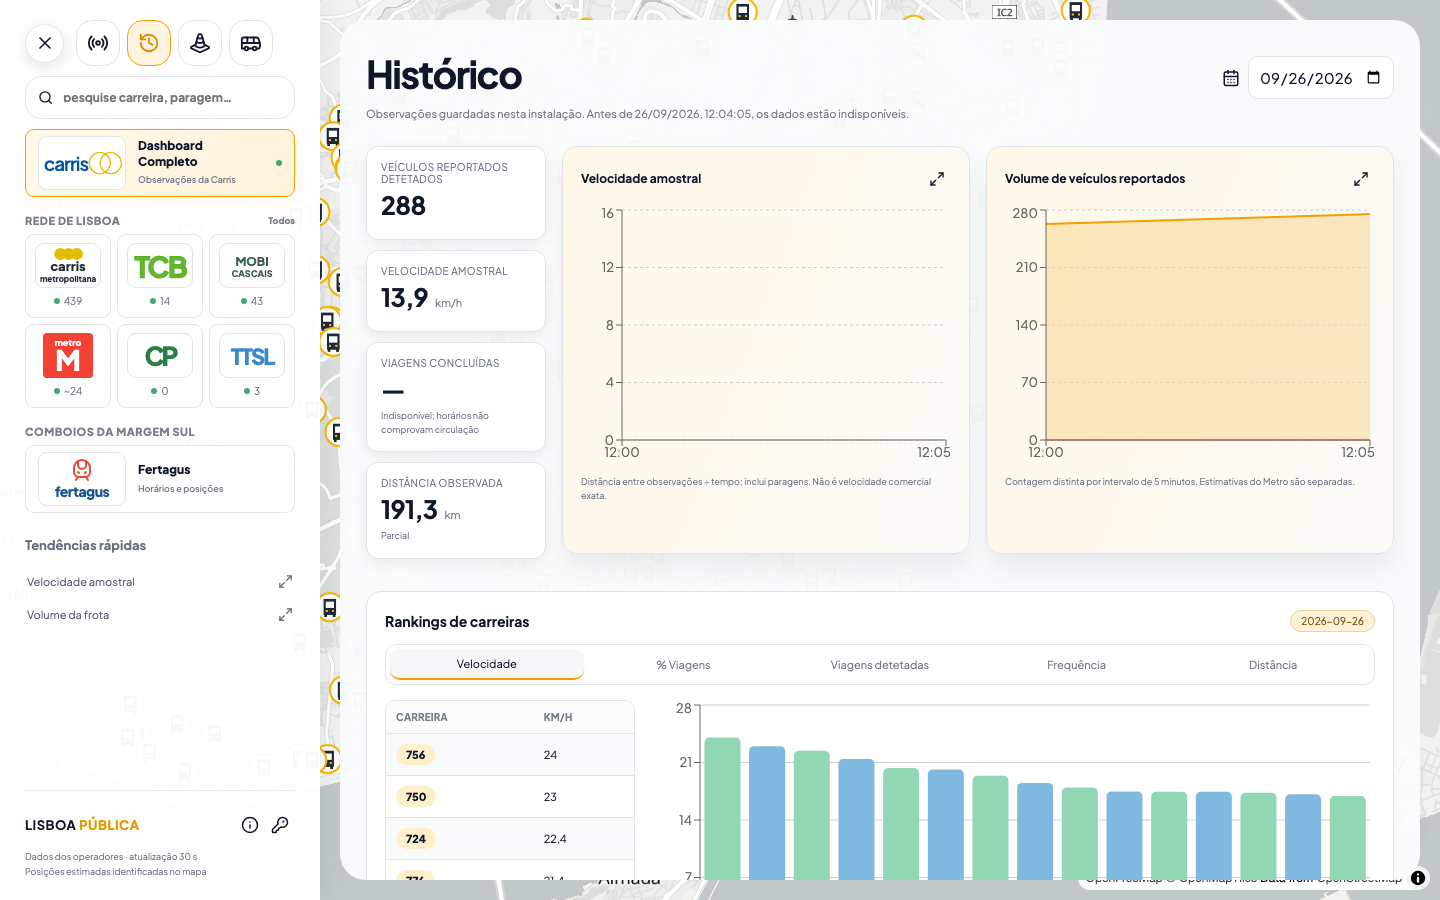
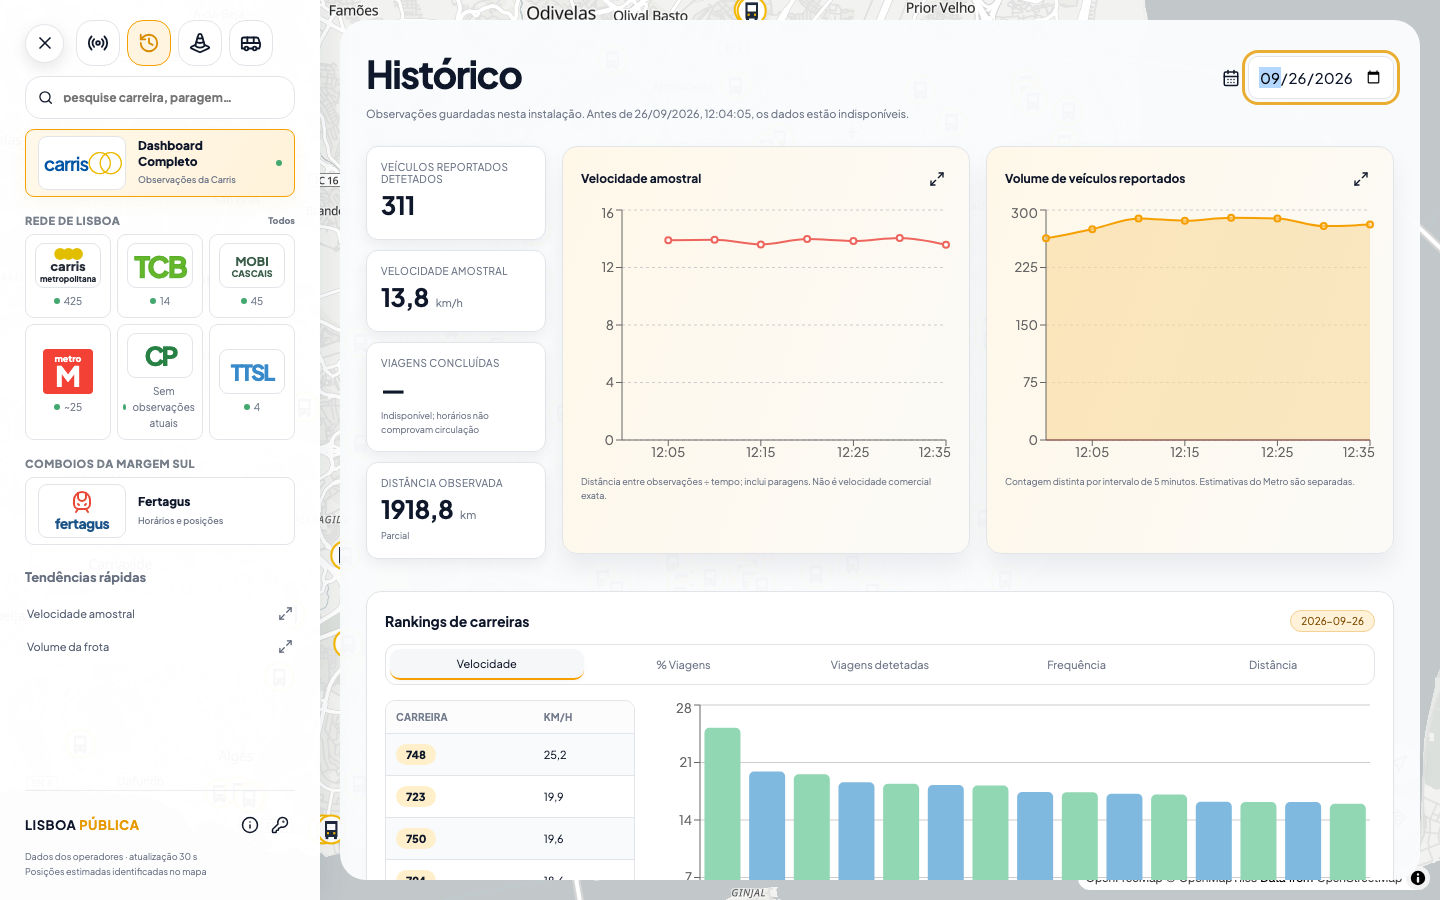
docs: record production metrics and overlay acceptance
## 🎯 Motivation

- Preserve production evidence for the CP diagnosis, restored metrics and official map overlays.

## 📋 Summary

- Record database/browser checks, all-source refresh memory, compression and independent acceptance.
- Update Maat gate results and mark the corrections plan complete.
- Capture current public desktop, mobile, chart and overlay screenshots.

diff --git a/docs/VALIDATION.md b/docs/VALIDATION.md
@@ -100,3 +100,19 @@ Full CRDB race suite passed73.335s; final targeted browser suite passed4/4 in8.7
 Independent final review found three recoverable edge gaps: oversized retained geometry could block a changed CM catalog, CM route detail lacked a representative highlight, and a CM archive with missing shapes could be silently counted as success. Main added fallback admission recheck (dropping inadmissible geometry with explicit unavailable reason), common exact static+health allocation accounting, representative CM route geometry, and rejection of empty per-agency shape variants. PG full race after the first fixes5.059s; subsequent checks recorded below.
 
 Final code review by existing quasar-alpha/xhigh independently recommends implementation acceptance, no code blockers. Focused missing-shape/CM/highlight/API cases passPG2.104s andCRDB10.856s. Shape collection bound applies to requested bus/metro modes, preserving existing rail parsing limits. Geometry cache fields follow existing catalog/schedule fields so timestamps do not shift the stable compressed timetable prefix on each refresh.
+
+### Final correction checks and production evidence
+
+The final normal commit gate initially identified return-count and maintainability regressions. Main separated shape-point/trip parsing, simplification deviation/mask calculation, bounded response caching and CM static refresh by responsibility. The unchanged fixtures still pass: latest full Postgres race suite **3.845s**, focused Cockroach API/GTFS/CM fallback/integration checks **11.262s** after these refactors; the full Cockroach race suite passed **73.335s** before the equivalent refactors. Go vet, deterministic contract generation and TypeScript production build pass. Final targeted correction browser suite: **4 passed in8.7s**; local dashboard suite: **4 passed in29.7s**.
+
+The normal Maat gate accepted executable commit **adfa4c66b6364cbd59f9362dd10541f95e98e6ed** at scoped Go score **74**, delta **+3** against its analyzed baseline, no critical regressions and zero suppressions. TypeScript is checked separately; the absolute95 target remains unresolved. The final eight-official-feed offline geometry acceptance passed8.94s. Carris cache21,280,475 compressed bytes/reservation85,121,900; CM cache1,999,853/reservation7,999,412, both below128MiB. No upstream requests run in ordinary tests.
+
+That executable is deployed at [Lisboa Pública](https://lisboapublica.rtfpessoa.xyz) with the existing Compose/Caddy setup and external verified-TLS CockroachDB. A controlled full refresh retained the warm catalogs and refreshed all eight official sources. Cgroup peak **1,154.1MiB** stayed below the **1,280MiB** container limit, with **zero OOM events and zero restarts**; settled memory subsequently fell to633MiB. All eight providers report static/live statusok and Metro direct statusok. Cloud table-span measurement: **340,040,555 bytes**, with6,623 finalized snapshot records at measurement time. Public configuration remains30 days,300-second history,5,000,000,000-byte application budget and collecting. One ingestion process and its900-request rolling-minute budget are unchanged.
+
+Production dashboard browser suite: **3 passed,1 deliberate development-auth skip in31.4s**. Actual HTTPS browser checks observed Carris254 reported vehicles,13.8km/h from249 valid samples, and CP15 current reported positions. CP's intermittent official feed gaps remain explicitly labeled, with schedules preserved. Real historical charts rendered seven speed dots across eight buckets (first bucketnull) and two volume curves with eight dots. Both overlays start disabled and follow selected operators. Enabling Metro then buses loaded19 Metro variants and1,962 combined Metro/Carris/CM variants across four successful frozen pages, with all selected geometry sources available. The difference from1,963 offline variants is one CM line absent from the current authoritative API catalog. Mobile has no horizontal overflow; no browser page errors were observed.
+
+Updated production screenshots: [desktop](acceptance/desktop.png), [history](acceptance/history.png), [fleet](acceptance/fleet.png), [traffic](acceptance/traffic.png), [mobile](acceptance/mobile.png), [speed chart](acceptance/speed-chart.png), [volume chart](acceptance/volume-chart.png), [combined overlays](acceptance/overlays.png), [Metro overlay](acceptance/metro-overlay.png), [mobile overlays](acceptance/mobile-overlays.png). Browser navigation can cancel pending history requests; associated context-canceled logs are client cancellations, not provider ingestion failures.
+
+Caddy compression commit **f1071e3** adds encodezstdgzip only to this dashboard host. The existing shared Caddy configuration was backed up, validated and reloaded; HTTPS200 with Content-Encodinggzip was verified. Other services remain unchanged. Configuration and evidence commits do not alter the deployed executable image revision.
+
+The separate existing real **quasar-alpha/xhigh final reviewer recommends final acceptance** of deployed adfa4c6 with compression f1071e3, with no remaining code or deployment blockers. It reviewed the production screenshots and test results and accepted the all-source memory refresh evidence. Main confirms the requested CP diagnosis/status correction, visible metrics/charts and independent initially-disabled operator-filtered overlays meet the authorized requirements. A subsequent Cloud read measured342,030,678 bytes and7,503 finalized records, confirming continued collection. Final HTTPS Metro geometry response returned200/gzip (6,514 transferred bytes). The existing public UI, generated API contract, scoped keys, upstream request budget, compact history and application-only storage budget are preserved.

diff --git a/docs/MAAT.md b/docs/MAAT.md
@@ -11,3 +11,5 @@ Validation after cleanup: Postgres race tests, Cockroach race tests, Go vet, det
 The first normal commit attempt encountered a gate implementation error: an existing empty initial Git tree was sent to Maat as a diff baseline, which produced “no modules found.” The gate's `_base_commit` now recognizes an empty tree and uses its existing first-snapshot policy, still analyzing the complete staged candidate. The normal hook remains installed. This narrow repair and a regression test are local changes in code-factory's `git/scripts/maat_gate.py` and `scripts/test_maat_gate.py`; all22 gate tests pass. Neither Maat's pinned binary nor thresholds were changed.
 
 The storage amendment's normal commit gate passed with scoped Go score70 (delta+5 versus its analyzed baseline), no critical regressions and zero suppressions. A preceding attempt was blocked for new return-count, startup complexity and file-cohesion findings; main separated database-pool configuration, guarded initialization and storage-budget decisions by their actual responsibilities, then retried through the normal hook. The absolute95 target is still not claimed to pass. TypeScript remains separately checked.
+
+The CP/metrics/route-overlay amendment's normal gate passed at scoped Go score **74**, delta **+3** against its analyzed baseline, with no critical regressions and zero suppressions (commit adfa4c6). Two preceding attempts correctly blocked new shape parsing/simplification return-count and maintainability findings. Main extracted the actual parsing, geometry deviation/mask, response-cache admission and CM refresh responsibilities, preserving behavior under Postgres/Cockroach and browser checks. The configured absolute95 target remains unresolved; this is acceptance by the normal regression gate. The Caddy-only compression commit has no supported source-language changes and the normal hook skips analysis for that commit.

diff --git a/docs/PLAN-corrections.md b/docs/PLAN-corrections.md
@@ -16,3 +16,5 @@ Out of scope: new providers, authentication requirement, complete fleet inventor
 Pre-fix browser evidence: all three targeted regressions fail (fresh live speed vs null historical mean; refresh clears count; two valid speed points separated by null render zero markers). Single-point series alone already worked.
 
 Independent plan review: existing real quasar-alpha/xhigh reviewer recommended acceptance, no blockers. CM IDs/join verified directly; bounded parsing/cache fallback retained. Explicit conditional response cache limited to1MiB per body so four added archives do not accumulate in memory between six-hour static refreshes.
+
+Completed and deployed: executable adfa4c6 and Caddy compression f1071e3. The separate existing real quasar-alpha/xhigh final reviewer recommends final acceptance with no code or deployment blockers; main confirms completion. Actual production charts, CP observations, paginated official overlays, mobile layout and full eight-source warm refresh were verified. Test results, resource measurements and screenshots are recorded in [validation evidence](VALIDATION.md#final-correction-checks-and-production-evidence).
